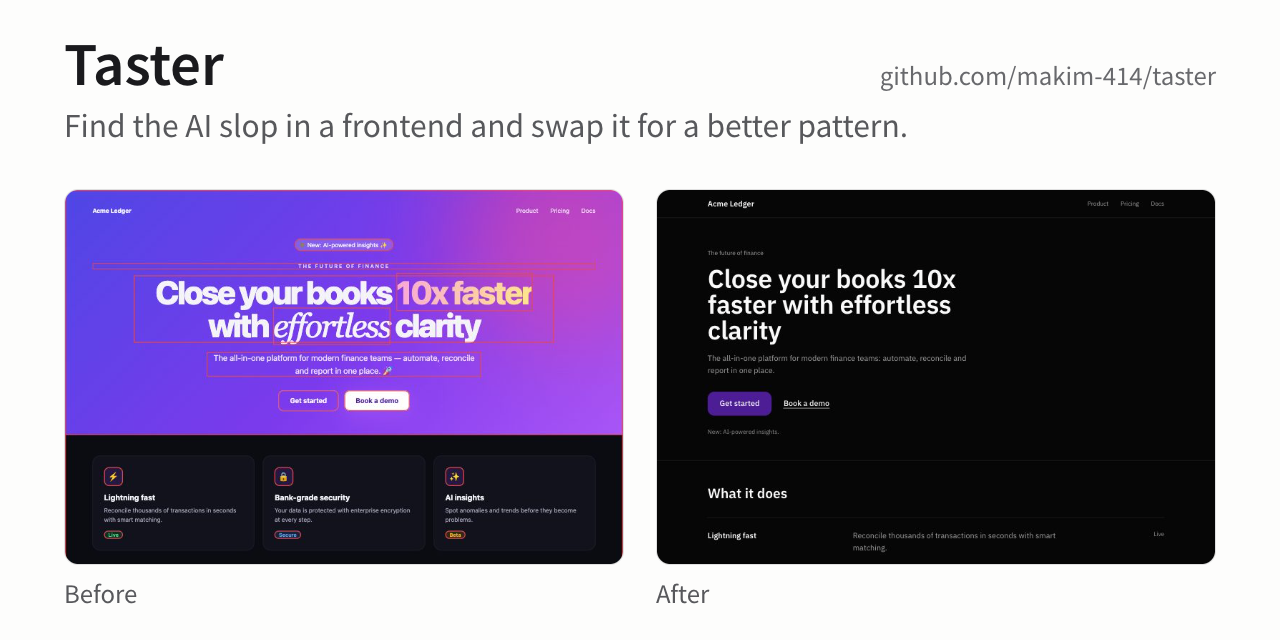
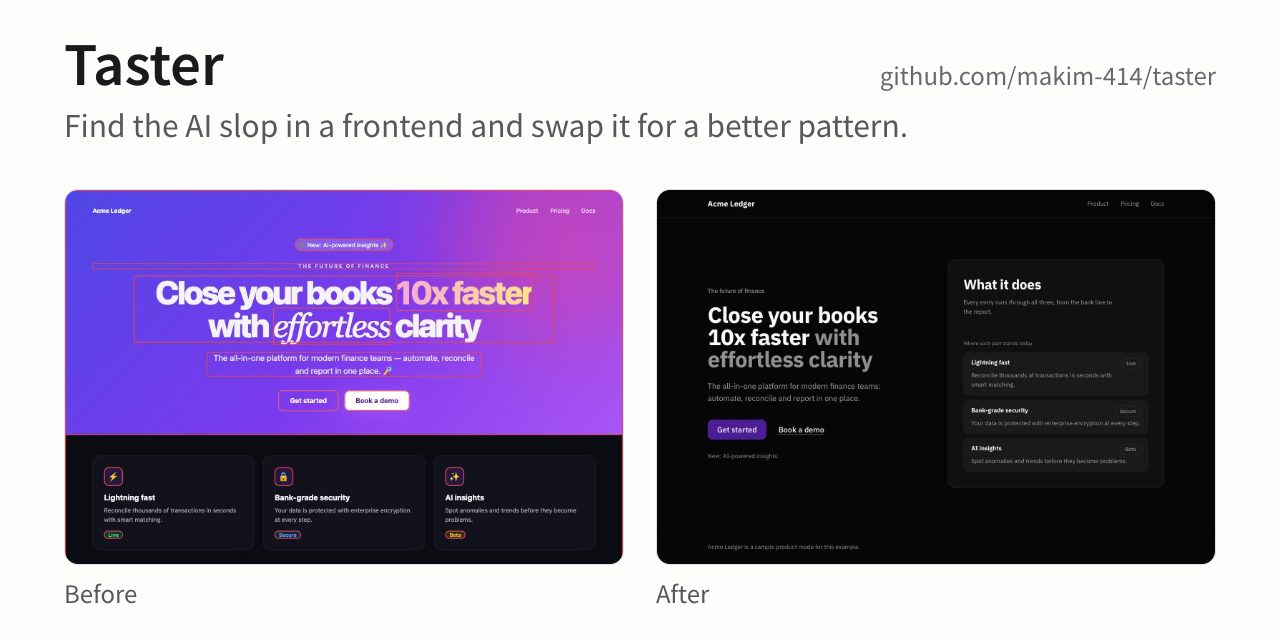
feat(examples): give the rebuild After a two column hero and a panel of rows
The After of the worked example read as the Before with its tells taken
out: one column of text on a plain dark page. It now looks like a
finished product page drawn from the same system. The words sit on the
left with a sentence case label and a headline whose second phrase is
set in a quieter ink; on the right one bordered panel holds the three
claims as rows told apart by a fill step, each with a neutral status
label. pricing.html gets the same structure, so the two screens stay
consistent and the plan notes name the new patterns.

Every value still comes from theme.css and the registry tokens.
before.html, theme.css and taster.system.json are unchanged, so the
README count of 18 rules still holds. The rows carry no border of their
own (a bordered row inside the bordered panel is CMP-02), the main
action keeps the brand fill, and the font link adds 700 for --w-semi.

The compare pictures (after.jpg, after-780.jpg), the social preview
card and the alt texts in both READMEs and on the home slider now
describe the new look.

diff --git a/examples/rebuild/site.css b/examples/rebuild/site.css
@@ -2,41 +2,57 @@
    Brand color, typeface, meaning colors, spacing, radius, type scale, shadows, motion and borders all come from theme.css. */
 
 * { box-sizing: border-box; margin: 0; }
-body { background: var(--bg); color: var(--text); font-family: var(--font); font-size: var(--t-title); line-height: var(--lh-normal); }
-.wrap { max-width: 1120px; margin: 0 auto; padding: 0 var(--sp-6); }
+body { display: flex; flex-direction: column; min-height: 100vh; background: var(--bg); color: var(--text); font-family: var(--font); font-size: var(--t-title); line-height: var(--lh-normal); }
+p { text-wrap: pretty; }
+main { flex: 1; display: flex; flex-direction: column; justify-content: center; }
+.wrap { width: 100%; max-width: 1120px; margin: 0 auto; padding: 0 var(--sp-6); }
 
 /* site-header */
-header { border-bottom: 1px solid var(--border); }
+header { border-bottom: 1px solid var(--border-soft); }
 header .wrap { display: flex; align-items: center; justify-content: space-between; gap: var(--sp-6); min-height: 64px; }
 .name { display: inline-flex; align-items: center; min-height: var(--control-touch, 44px); font-weight: var(--w-semi); font-size: var(--t-title); color: var(--text); text-decoration: none; }
 nav ul { display: flex; gap: var(--sp-6); list-style: none; padding: 0; }
 nav a { display: inline-flex; align-items: center; min-height: var(--control-touch, 44px); color: var(--text-muted); text-decoration: none; font-size: var(--t-body); }
 nav a:hover { color: var(--text); }
 
-/* hero-headline-lockup: the original has words and no product picture, so the words carry the hero */
-.hero { padding: var(--sp-16) 0 var(--sp-12); }
-.kicker { color: var(--text-muted); font-size: var(--t-body); }
-.note { margin-top: var(--sp-6); color: var(--text-subtle); font-size: var(--t-body); }
-h1 { margin-top: var(--sp-4); max-width: 18ch; font-size: clamp(var(--t-display), 6vw, 56px); line-height: var(--lh-tight); font-weight: var(--w-semi); letter-spacing: -0.01em; }
-.lead { margin-top: var(--sp-5); max-width: 56ch; color: var(--text-muted); font-size: var(--t-title); }
+/* asymmetric-product-hero: the words on the left, what the product does on the right, both in the first screen */
+.hero { padding: var(--sp-12) 0; }
+.hero .wrap { display: grid; grid-template-columns: minmax(0, 1fr) minmax(0, 1fr); gap: var(--sp-12); }
+.copy { align-self: center; }
+
+/* plain-headline-and-eyebrow: a sentence case label, one typeface, the second phrase set back in a quieter ink */
+.kicker { color: var(--text-subtle); font-size: var(--t-body); font-weight: var(--w-med); }
+h1 { margin-top: var(--sp-4); font-size: clamp(var(--t-h1), 4vw, var(--t-display)); line-height: var(--lh-tight); font-weight: var(--w-semi); letter-spacing: -0.02em; text-wrap: balance; }
+h1 .soft { color: var(--text-subtle); }
+.lead { margin-top: var(--sp-5); max-width: 40ch; color: var(--text-muted); }
 .actions { margin-top: var(--sp-8); display: flex; flex-wrap: wrap; align-items: center; gap: var(--sp-6); }
-.primary { display: inline-block; padding: var(--sp-3) var(--sp-6); border-radius: var(--r-md); background: var(--accent); color: var(--accent-fg); font-weight: var(--w-med); text-decoration: none; }
-.text-link { display: inline-flex; align-items: center; min-height: var(--control-touch, 44px); color: var(--text); font-weight: var(--w-med); text-underline-offset: 4px; }
+.primary { display: inline-flex; align-items: center; min-height: var(--control-touch, 44px); padding: var(--sp-2) var(--sp-5); border-radius: var(--r-sm); background: var(--accent); color: var(--accent-fg); font-weight: var(--w-med); text-decoration: none; }
+.text-link { display: inline-flex; align-items: center; min-height: var(--control-touch, 44px); color: var(--text); font-weight: var(--w-med); text-decoration-color: var(--text-subtle); text-underline-offset: 4px; }
+.note { margin-top: var(--sp-6); color: var(--text-subtle); font-size: var(--t-body); }
 
-/* content-matched-grid: three claims, set as rows with hairlines instead of three icon cards */
-.features { border-top: 1px solid var(--border); padding: var(--sp-12) 0 var(--sp-16); }
-.features h2 { font-size: var(--t-h2); font-weight: var(--w-semi); line-height: var(--lh-snug); }
-.rows { margin-top: var(--sp-8); }
-.row { display: grid; grid-template-columns: minmax(0, 4fr) minmax(0, 7fr) minmax(0, 2fr); gap: var(--sp-6); padding: var(--sp-6) 0; border-top: 1px solid var(--border); }
-.row h3 { font-size: var(--t-title); font-weight: var(--w-semi); }
-.row p { color: var(--text-muted); }
-.row .state { color: var(--text-subtle); font-size: var(--t-body); text-align: right; }
+/* hairline-card: one panel, a one pixel border on a faint fill, its title on top and its rows at the foot */
+.panel { display: flex; flex-direction: column; padding: var(--sp-8); border: 1px solid var(--border-soft); border-radius: var(--r-card); background: var(--card); }
+.panel h2 { font-size: var(--t-h2); font-weight: var(--w-semi); line-height: var(--lh-snug); letter-spacing: -0.02em; text-wrap: balance; }
+.panel .sub { margin-top: var(--sp-2); max-width: 44ch; color: var(--text-muted); font-size: var(--t-body); }
+.panel .cap { margin-top: auto; padding-top: var(--sp-12); color: var(--text-subtle); font-size: var(--t-sm); }
 
-footer { border-top: 1px solid var(--border); padding: var(--sp-8) 0; color: var(--text-subtle); font-size: var(--t-body); }
+/* list-item-row: rows told apart by one step of fill, with no second border inside the panel */
+.rows { margin-top: var(--sp-2); display: grid; gap: var(--sp-2); list-style: none; padding: 0; }
+.row { display: grid; grid-template-columns: minmax(0, 1fr) auto; gap: var(--sp-1) var(--sp-4); padding: var(--sp-3) var(--sp-4); border-radius: var(--r-sm); background: var(--card); }
+.row h3 { font-size: var(--t-body); font-weight: var(--w-semi); line-height: var(--lh-normal); }
+.row p { grid-column: 1 / -1; color: var(--text-muted); font-size: var(--t-body); }
+
+/* status-label: the state as neutral text in a thin neutral ring, no tint and no colored dot */
+.state { grid-column: 2; grid-row: 1; align-self: center; justify-self: end; padding: var(--sp-1) var(--sp-2); border: 1px solid var(--border-soft); border-radius: var(--r-pill); color: var(--text-subtle); font-size: var(--t-sm); font-weight: var(--w-med); line-height: var(--lh-snug); white-space: nowrap; }
+
+footer { border-top: 1px solid var(--border-soft); padding: var(--sp-6) 0; color: var(--text-subtle); font-size: var(--t-body); }
 
 @media (max-width: 767px) {
-  .hero { padding: var(--sp-12) 0 var(--sp-8); }
+  .hero { padding: var(--sp-8) 0 var(--sp-12); }
+  .hero .wrap { grid-template-columns: minmax(0, 1fr); gap: var(--sp-8); }
   nav ul { gap: var(--sp-4); }
-  .row { grid-template-columns: minmax(0, 1fr); gap: var(--sp-2); }
-  .row .state { text-align: left; }
+  h1 { font-size: var(--t-h2); }
+  .panel { padding: var(--sp-5); }
+  .panel .cap { padding-top: var(--sp-8); }
+  .panel h2 { font-size: var(--t-title); }
 }

diff --git a/examples/rebuild/after.html b/examples/rebuild/after.html
@@ -8,7 +8,7 @@
 <!-- The design system made from before.html (brand plus tone): node packages/engine/cli.mjs --system examples/rebuild/before.html --out examples/rebuild -->
 <link rel="stylesheet" href="theme.css">
 <link rel="preconnect" href="https://fonts.googleapis.com">
-<link rel="stylesheet" href="https://fonts.googleapis.com/css2?family=IBM+Plex+Sans:wght@400;500;600&display=swap">
+<link rel="stylesheet" href="https://fonts.googleapis.com/css2?family=IBM+Plex+Sans:wght@400;500;600;700&display=swap">
 <!-- Every screen shares one stylesheet built only from the tokens above. -->
 <link rel="stylesheet" href="site.css">
 </head>
@@ -21,27 +21,29 @@
   </header>
 
   <main>
-    <section class="hero">
+    <section class="hero" aria-labelledby="title">
       <div class="wrap">
-        <p class="kicker">The future of finance</p>
-        <h1>Close your books 10x faster with effortless clarity</h1>
-        <p class="lead">The all-in-one platform for modern finance teams: automate, reconcile and report in one place.</p>
-        <div class="actions">
-          <a class="primary" href="#">Get started</a>
-          <a class="text-link" href="#">Book a demo</a>
+        <div class="copy">
+          <p class="kicker">The future of finance</p>
+          <h1 id="title">Close your books 10x faster <span class="soft">with effortless clarity</span></h1>
+          <p class="lead">The all-in-one platform for modern finance teams: automate, reconcile and report in one place.</p>
+          <div class="actions">
+            <a class="primary" href="#">Get started</a>
+            <a class="text-link" href="#">Book a demo</a>
+          </div>
+          <p class="note">New: AI-powered insights.</p>
         </div>
-        <p class="note">New: AI-powered insights.</p>
-      </div>
-    </section>
 
-    <section class="features">
-      <div class="wrap">
-        <h2>What it does</h2>
-        <div class="rows">
-          <div class="row"><h3>Lightning fast</h3><p>Reconcile thousands of transactions in seconds with smart matching.</p><span class="state">Live</span></div>
-          <div class="row"><h3>Bank-grade security</h3><p>Your data is protected with enterprise encryption at every step.</p><span class="state">Secure</span></div>
-          <div class="row"><h3>AI insights</h3><p>Spot anomalies and trends before they become problems.</p><span class="state">Beta</span></div>
-        </div>
+        <section class="panel" aria-labelledby="what">
+          <h2 id="what">What it does</h2>
+          <p class="sub">Every entry runs through all three, from the bank line to the report.</p>
+          <p class="cap">Where each part stands today</p>
+          <ul class="rows">
+            <li class="row"><h3>Lightning fast</h3><p>Reconcile thousands of transactions in seconds with smart matching.</p><span class="state">Live</span></li>
+            <li class="row"><h3>Bank-grade security</h3><p>Your data is protected with enterprise encryption at every step.</p><span class="state">Secure</span></li>
+            <li class="row"><h3>AI insights</h3><p>Spot anomalies and trends before they become problems.</p><span class="state">Beta</span></li>
+          </ul>
+        </section>
       </div>
     </section>
   </main>

diff --git a/examples/rebuild/pricing.html b/examples/rebuild/pricing.html
@@ -7,7 +7,7 @@
 <link rel="stylesheet" href="../../packages/registry/src/tokens.css">
 <link rel="stylesheet" href="theme.css">
 <link rel="preconnect" href="https://fonts.googleapis.com">
-<link rel="stylesheet" href="https://fonts.googleapis.com/css2?family=IBM+Plex+Sans:wght@400;500;600&display=swap">
+<link rel="stylesheet" href="https://fonts.googleapis.com/css2?family=IBM+Plex+Sans:wght@400;500;600;700&display=swap">
 <!-- The second screen, built from the same stylesheet as after.html and checked against it with check_consistency. -->
 <link rel="stylesheet" href="site.css">
 </head>
@@ -20,26 +20,29 @@
   </header>
 
   <main>
-    <section class="hero">
+    <section class="hero" aria-labelledby="title">
       <div class="wrap">
-        <p class="kicker">Pricing</p>
-        <h1>One plan per stage of your finance team</h1>
-        <p class="lead">Every plan reconciles, closes and reports in one place. Prices come from the owner; this sample leaves them out instead of inventing them.</p>
-        <div class="actions">
-          <a class="primary" href="#">Get started</a>
-          <a class="text-link" href="#">Book a demo</a>
+        <div class="copy">
+          <p class="kicker">Pricing</p>
+          <h1 id="title">One plan per stage <span class="soft">of your finance team</span></h1>
+          <p class="lead">Every plan reconciles, closes and reports in one place.</p>
+          <div class="actions">
+            <a class="primary" href="#">Get started</a>
+            <a class="text-link" href="#">Book a demo</a>
+          </div>
+          <p class="note">Prices come from the owner; this sample leaves them out instead of inventing them.</p>
         </div>
-      </div>
-    </section>
 
-    <section class="features">
-      <div class="wrap">
-        <h2>Plans</h2>
-        <div class="rows">
-          <div class="row"><h3>Starter</h3><p>One entity, monthly close, bank feeds and matching.</p><span class="state">Self serve</span></div>
-          <div class="row"><h3>Growth</h3><p>Several entities, a shared close checklist and approvals.</p><span class="state">Self serve</span></div>
-          <div class="row"><h3>Enterprise</h3><p>Custom controls, an audit trail and a named contact.</p><span class="state">Book a demo</span></div>
-        </div>
+        <section class="panel" aria-labelledby="plans">
+          <h2 id="plans">Plans</h2>
+          <p class="sub">Each plan adds what a larger close needs, from one entity to many.</p>
+          <p class="cap">How each plan starts</p>
+          <ul class="rows">
+            <li class="row"><h3>Starter</h3><p>One entity, monthly close, bank feeds and matching.</p><span class="state">Self serve</span></li>
+            <li class="row"><h3>Growth</h3><p>Several entities, a shared close checklist and approvals.</p><span class="state">Self serve</span></li>
+            <li class="row"><h3>Enterprise</h3><p>Custom controls, an audit trail and a named contact.</p><span class="state">Book a demo</span></li>
+          </ul>
+        </section>
       </div>
     </section>
   </main>

diff --git a/apps/web/app/diagnose.tsx b/apps/web/app/diagnose.tsx
@@ -140,7 +140,7 @@ export function Diagnose({ ruleCount }: { ruleCount: number }) {
           <CompareReveal
             label="Taster 재구성 예시의 고치기 전과 다시 지은 판 비교"
             before={{ src: '/compare/before.jpg', alt: 'Acme Ledger 예시 페이지의 첫 화면. 보라 그라디언트 바탕, 이모지가 든 알약 공지, 대문자 넓은 자간 머리말, 그라디언트 글자와 이탤릭 세리프 한 단어가 섞인 제목, 엠대시 문장, 빛 번짐 버튼, 이모지 타일 카드 세 장과 틴트 알약 배지. 걸린 요소마다 빨간 테두리' }}
-            after={{ src: '/compare/after.jpg', alt: '같은 내용을 다시 지은 첫 화면. 어두운 바탕에 왼쪽 정렬 제목과 설명, 버튼 하나와 글자 링크, 아이콘 카드 대신 선으로 나눈 기능 목록' }}
+            after={{ src: '/compare/after.jpg', alt: '같은 내용을 다시 지은 첫 화면. 어두운 바탕의 두 단 구성으로, 왼쪽에 뒷구절을 회색으로 둔 제목과 설명, 버튼 하나와 글자 링크, 오른쪽에 아이콘 카드 대신 기능을 행으로 담은 얇은 테두리 패널 하나' }}
           />
           <div className="sample-captions">
             <p>고치기 전, before.html</p>

diff --git a/README.ko.md b/README.ko.md
@@ -8,7 +8,7 @@
 
 | 고치기 전 | 고친 뒤 |
 |---|---|
-| ![고치기 전의 Acme Ledger: 보라색 그라데이션 히어로와 흐린 분홍 빛 번짐, 이모지를 단 알약 배지, 넓은 자간의 대문자 머리글, 제목 속 그라데이션 단어와 기울인 세리프 단어, 글 속 이모지, 색을 옅게 깐 알약 배지를 단 똑같은 아이콘 카드 세 장. 걸린 곳마다 Taster 가 테두리를 쳤음](apps/web/public/compare/before-780.jpg) | ![고친 뒤의 Acme Ledger: 장식 없는 어두운 바탕에 같은 제목, 글, 버튼. 문장형 라벨, 강조색 버튼 하나와 글자 링크, 카드 대신 목록으로 쓴 기능 설명](apps/web/public/compare/after-780.jpg) |
+| ![고치기 전의 Acme Ledger: 보라색 그라데이션 히어로와 흐린 분홍 빛 번짐, 이모지를 단 알약 배지, 넓은 자간의 대문자 머리글, 제목 속 그라데이션 단어와 기울인 세리프 단어, 글 속 이모지, 색을 옅게 깐 알약 배지를 단 똑같은 아이콘 카드 세 장. 걸린 곳마다 Taster 가 테두리를 쳤음](apps/web/public/compare/before-780.jpg) | ![고친 뒤의 Acme Ledger: 어두운 바탕의 두 단 히어로에 같은 제목, 글, 버튼. 문장형 라벨, 뒷구절을 회색으로 둔 제목, 강조색 버튼 하나와 글자 링크, 옆에는 아이콘 카드 세 장 대신 기능을 행으로 담고 무채색 상태 라벨을 단 얇은 테두리 패널 하나](apps/web/public/compare/after-780.jpg) |
 
 고치기 전: 지어낸 랜딩 페이지 Acme Ledger(18개 규칙에 걸림). 걸린 곳마다 Taster 가 테두리를 쳤습니다. 고친 뒤: 같은 내용을 규칙에 맞게 다시 지어 1440 과 390 폭 모두 0건입니다. 두 페이지와 이를 증명하는 검사는 [`examples/rebuild/`](examples/rebuild/) 에 있습니다.
 

diff --git a/README.md b/README.md
@@ -8,7 +8,7 @@ Find the AI slop in a frontend, swap each spot for a pattern that does the same 
 
 | Before | After |
 |---|---|
-| ![Acme Ledger before: a purple gradient hero with a blurred pink glow, a pill badge with an emoji, an all caps eyebrow with wide letter spacing, a gradient word and an italic serif word in the headline, emoji in the text, and three identical icon cards with tinted pill badges, each finding outlined by Taster](apps/web/public/compare/before-780.jpg) | ![Acme Ledger after: the same headline, text and actions on a plain dark page, a sentence case label, one accent button next to a text link, and the features as a list instead of cards](apps/web/public/compare/after-780.jpg) |
+| ![Acme Ledger before: a purple gradient hero with a blurred pink glow, a pill badge with an emoji, an all caps eyebrow with wide letter spacing, a gradient word and an italic serif word in the headline, emoji in the text, and three identical icon cards with tinted pill badges, each finding outlined by Taster](apps/web/public/compare/before-780.jpg) | ![Acme Ledger after: the same headline, text and actions in a two column hero on a dark page, a sentence case label, a headline whose second phrase is set in gray, one accent button next to a text link, and beside them one bordered panel that lists the features as rows with neutral status labels instead of three icon cards](apps/web/public/compare/after-780.jpg) |
 
 Before: Acme Ledger, a made-up landing page that breaks 18 of the rules, each finding outlined by Taster. After: the same content rebuilt to the rules, with 0 findings at 1440 and 390 pixels wide. Both pages and the check that proves it are in [`examples/rebuild/`](examples/rebuild/).
 
